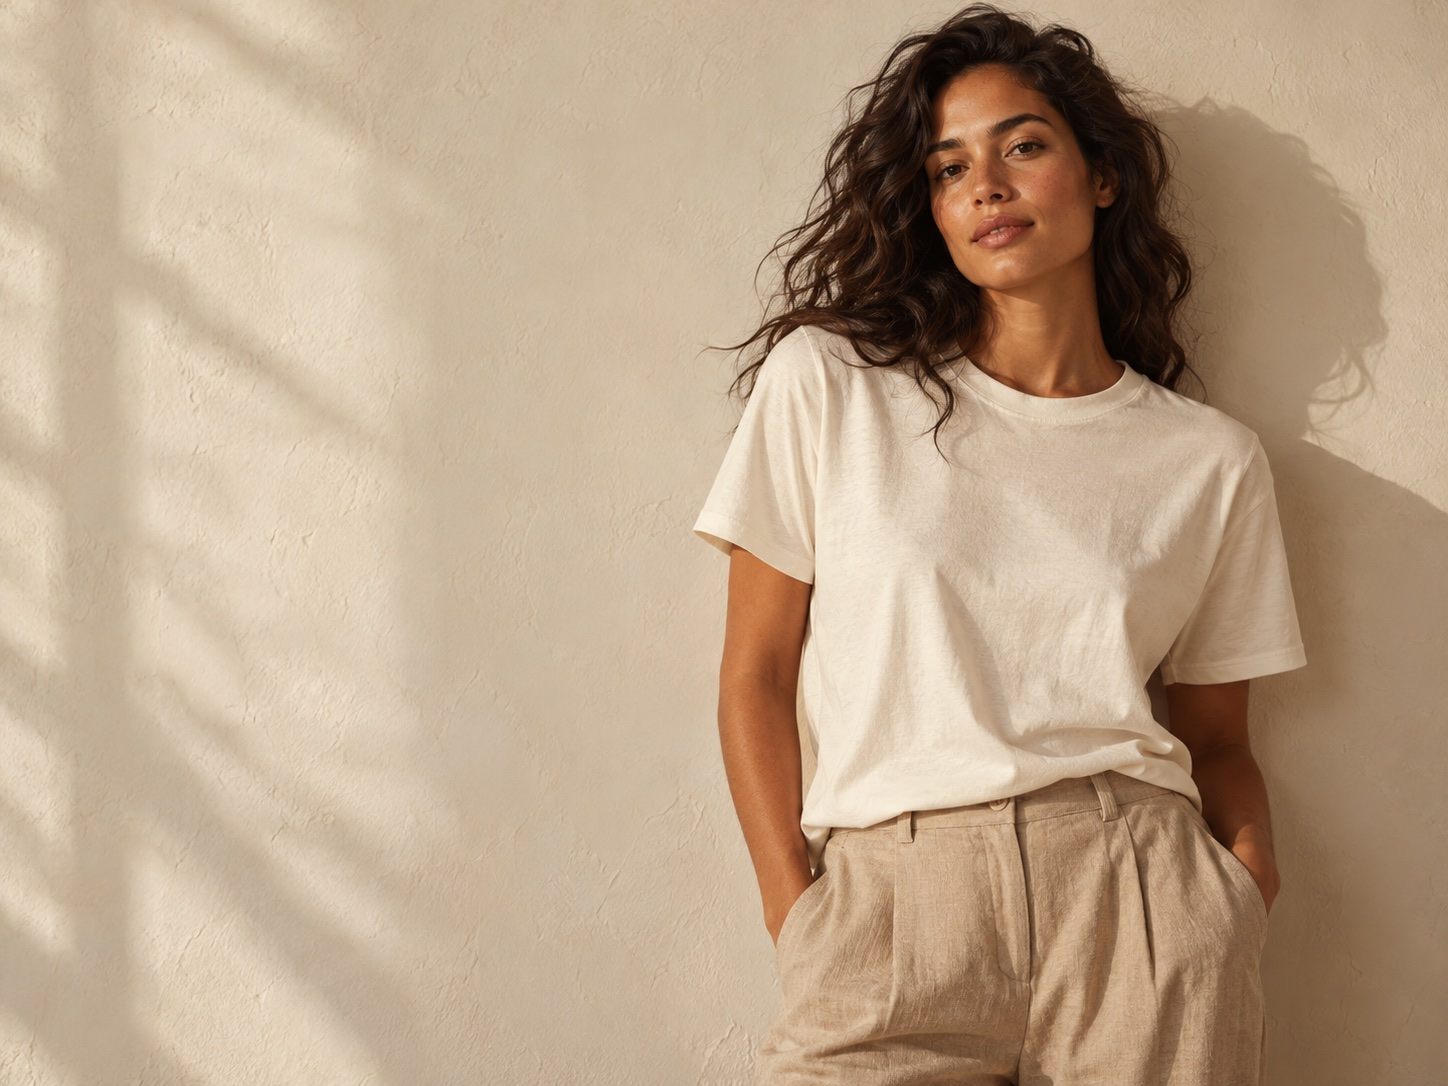
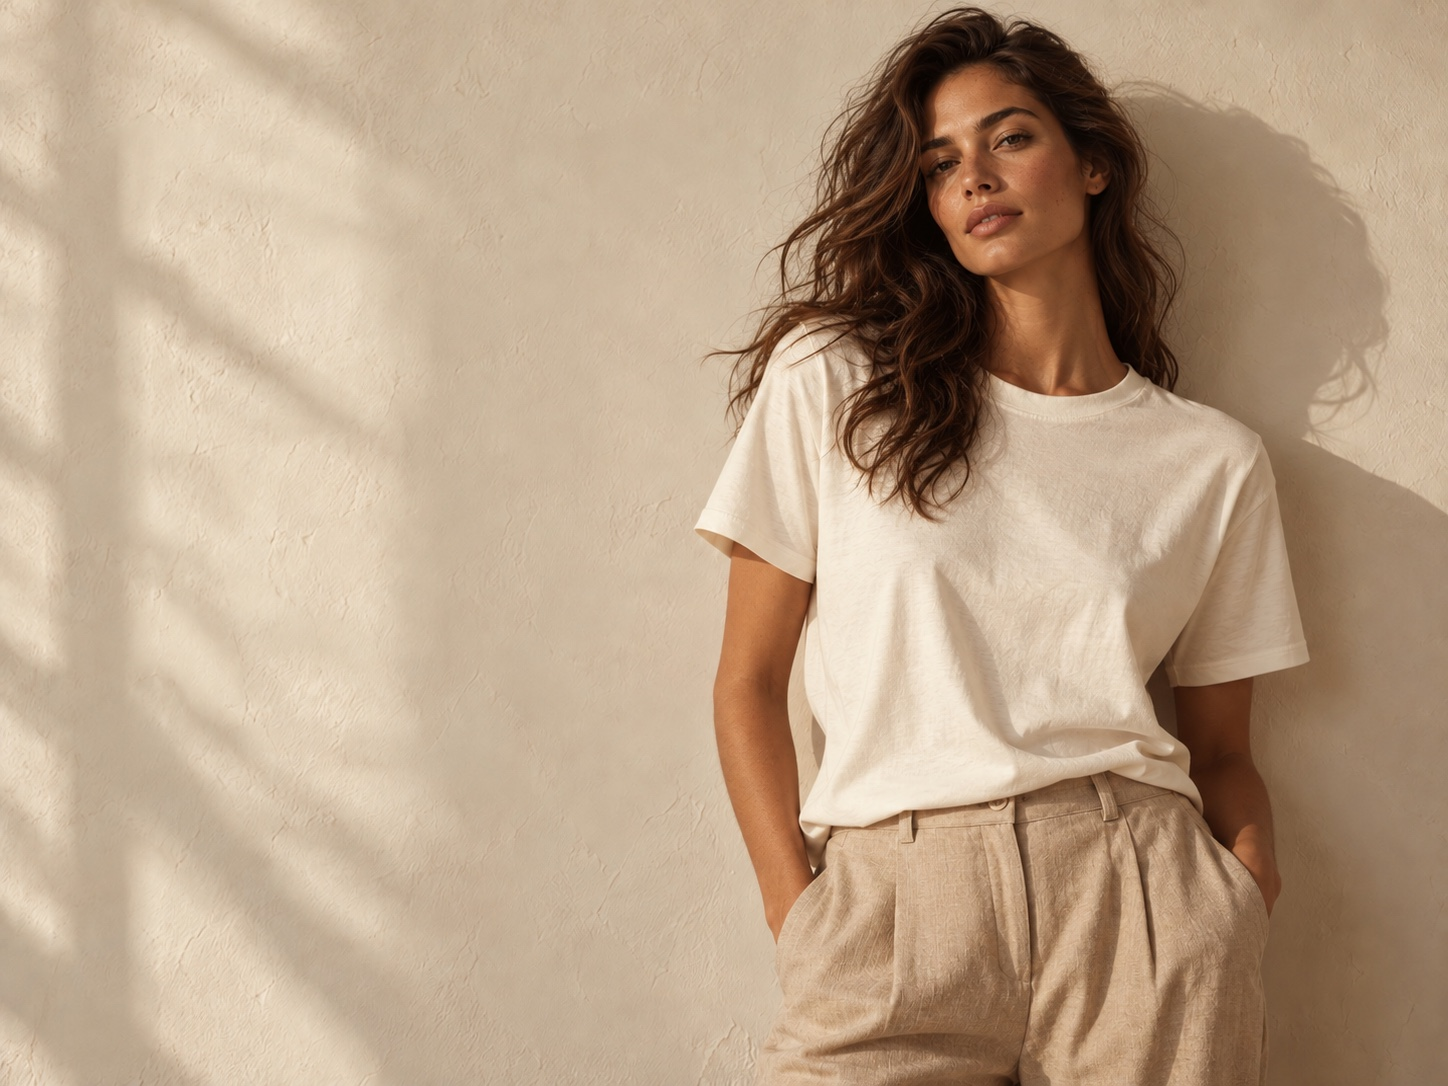
Warm up Gengibre storefront palette and imagery

diff --git a/styles.css b/styles.css
@@ -1,12 +1,12 @@
 :root {
   color-scheme: light;
-  --paper: #f4f1e9;
-  --paper-deep: #ebe6dc;
-  --ink: #1d2520;
-  --muted: #73776f;
-  --line: #d8d5ca;
-  --ginger: #b7573d;
-  --olive: #47564a;
+  --paper: #f3efe6;
+  --paper-deep: #e8e1d5;
+  --ink: #292b25;
+  --muted: #736e62;
+  --line: #d7cdbd;
+  --ginger: #79644c;
+  --olive: #4d5748;
   --serif: "Playfair Display", Georgia, serif;
   --sans: "DM Sans", Arial, sans-serif;
 }
@@ -23,8 +23,8 @@ img { display: block; max-width: 100%; }
 .sr-only { position: absolute; width: 1px; height: 1px; padding: 0; margin: -1px; overflow: hidden; clip: rect(0, 0, 0, 0); white-space: nowrap; border: 0; }
 
 .announcement { height: 33px; display: flex; align-items: center; justify-content: center; gap: 13px; color: #f7f4eb; background: var(--olive); font-size: 10px; letter-spacing: .075em; text-transform: uppercase; }
-.announcement-dot { color: #ddac8d; font-size: 13px; }
-.site-header { height: 77px; position: sticky; top: 0; z-index: 20; display: grid; grid-template-columns: 1fr auto 1fr; align-items: center; padding: 0 5.5vw; background: rgba(244, 241, 233, .97); border-bottom: 1px solid rgba(29, 37, 32, .09); backdrop-filter: blur(14px); }
+.announcement-dot { color: #c7b08f; font-size: 13px; }
+.site-header { height: 77px; position: sticky; top: 0; z-index: 20; display: grid; grid-template-columns: 1fr auto 1fr; align-items: center; padding: 0 5.5vw; background: rgba(243, 239, 230, .97); border-bottom: 1px solid rgba(29, 37, 32, .09); backdrop-filter: blur(14px); }
 .main-nav, .header-actions { display: flex; align-items: center; }
 .main-nav { gap: 31px; font-size: 11px; letter-spacing: .045em; }
 .main-nav a, .footer-links a, .text-link { transition: opacity .2s ease; }
@@ -67,8 +67,8 @@ h1 em, h2 em { color: var(--ginger); font-weight: 400; }
 .hero-image { width: 100%; height: 100%; object-fit: cover; object-position: center 35%; }
 .hero-image-wrap::after { content: ""; position: absolute; inset: 55% 0 0; pointer-events: none; background: linear-gradient(transparent, rgba(25, 25, 20, .36)); }
 .hero-image-caption { position: absolute; z-index: 1; bottom: 28px; left: 30px; right: 30px; display: flex; justify-content: space-between; color: white; font-size: 9px; letter-spacing: .08em; text-transform: uppercase; }
-.round-stamp { position: absolute; z-index: 2; top: 8%; left: -39px; width: 108px; height: 108px; display: flex; flex-direction: column; align-items: center; justify-content: center; gap: 5px; border: 1px solid rgba(244, 241, 233, .75); border-radius: 50%; outline: 1px solid rgba(244, 241, 233, .6); outline-offset: 5px; color: white; text-align: center; font-size: 8px; letter-spacing: .12em; line-height: 1.5; }
-.round-stamp b { color: #eab89a; font-size: 16px; font-weight: 400; }
+.round-stamp { position: absolute; z-index: 2; top: 8%; left: -39px; width: 108px; height: 108px; display: flex; flex-direction: column; align-items: center; justify-content: center; gap: 5px; border: 1px solid rgba(243, 239, 230, .75); border-radius: 50%; outline: 1px solid rgba(243, 239, 230, .6); outline-offset: 5px; color: white; text-align: center; font-size: 8px; letter-spacing: .12em; line-height: 1.5; }
+.round-stamp b { color: #c7ae8c; font-size: 16px; font-weight: 400; }
 .hero-index { position: absolute; z-index: 3; top: 50%; right: 20px; writing-mode: vertical-rl; color: white; font-size: 8px; letter-spacing: .14em; }
 
 .promise-bar { min-height: 87px; display: flex; align-items: center; justify-content: center; gap: clamp(45px, 9vw, 155px); border-bottom: 1px solid var(--line); }
@@ -92,8 +92,8 @@ h1 em, h2 em { color: var(--ginger); font-weight: 400; }
 .product-image { position: relative; overflow: hidden; aspect-ratio: .76; background: #e4dfd5; }
 .product-image > img { width: 100%; height: 100%; object-fit: cover; transition: transform .55s cubic-bezier(.2,.65,.25,1); }
 .product-card:hover .product-image > img { transform: scale(1.035); }
-.product-label { position: absolute; top: 12px; left: 12px; padding: 7px 9px; background: rgba(244, 241, 233, .9); color: #51594f; font-size: 8px; letter-spacing: .09em; text-transform: uppercase; }
-.favorite-button { position: absolute; top: 10px; right: 12px; display: grid; place-items: center; width: 30px; height: 30px; border: 0; border-radius: 50%; background: rgba(244, 241, 233, .76); cursor: pointer; font-size: 16px; }
+.product-label { position: absolute; top: 12px; left: 12px; padding: 7px 9px; background: rgba(243, 239, 230, .9); color: #51594f; font-size: 8px; letter-spacing: .09em; text-transform: uppercase; }
+.favorite-button { position: absolute; top: 10px; right: 12px; display: grid; place-items: center; width: 30px; height: 30px; border: 0; border-radius: 50%; background: rgba(243, 239, 230, .76); cursor: pointer; font-size: 16px; }
 .favorite-button.is-favorite { color: var(--ginger); }
 .product-info { padding-top: 13px; }
 .product-title-row { display: flex; justify-content: space-between; align-items: baseline; gap: 8px; }
@@ -142,10 +142,10 @@ h1 em, h2 em { color: var(--ginger); font-weight: 400; }
 .footer-main > p { margin: 0; color: #d2d4cb; font-family: var(--serif); font-size: 19px; line-height: 1.55; }
 .footer-links { display: grid; grid-template-columns: 1fr 1fr; gap: 20px; }
 .footer-links > div { display: flex; flex-direction: column; align-items: flex-start; gap: 11px; }
-.footer-links span { margin-bottom: 2px; color: #d5b9a3; font-size: 8px; letter-spacing: .12em; }
+.footer-links span { margin-bottom: 2px; color: #c7b295; font-size: 8px; letter-spacing: .12em; }
 .footer-links a { color: #edece5; font-size: 10px; }
-.footer-bottom { min-height: 55px; display: flex; align-items: center; justify-content: space-between; border-top: 1px solid rgba(244, 241, 233, .22); color: #c7cdc4; font-size: 7px; letter-spacing: .1em; }
-.footer-bottom b { margin-left: 5px; color: #d5b9a3; font-size: 12px; font-weight: 400; }
+.footer-bottom { min-height: 55px; display: flex; align-items: center; justify-content: space-between; border-top: 1px solid rgba(243, 239, 230, .22); color: #c7cdc4; font-size: 7px; letter-spacing: .1em; }
+.footer-bottom b { margin-left: 5px; color: #c7b295; font-size: 12px; font-weight: 400; }
 .footer-bottom a { color: #f2f0e8; }
 
 .drawer-backdrop { position: fixed; z-index: 40; inset: 0; background: rgba(23, 29, 24, .42); opacity: 0; transition: opacity .25s ease; }
@@ -296,8 +296,8 @@ h1 em, h2 em { color: var(--ginger); font-weight: 400; }
 }
 
 /* Multi-page storefront, brand marks, and video collection. */
-.wordmark.has-logo, .footer-wordmark { display: flex; align-items: center; justify-self: center; gap: 4px; width: 207px; height: 42px; overflow: visible; background: transparent; }
-.brand-flower { display: block; flex: 0 0 36px; width: 36px; height: 36px; object-fit: contain; }
+.wordmark.has-logo, .footer-wordmark { display: flex; align-items: center; justify-self: center; gap: 4px; width: 243px; height: 42px; overflow: visible; background: transparent; }
+.brand-flower { display: block; flex: 0 0 72px; width: 72px; height: 72px; object-fit: contain; }
 .wordmark-crop { position: relative; display: block; flex: 0 0 167px; width: 167px; height: 42px; margin: 0; overflow: hidden; vertical-align: baseline; }
 .wordmark-crop img { position: absolute; width: 267px; height: 107px; max-width: none; left: 50%; top: 50%; transform: translate(-50%, -50%); }
 .footer-wordmark { justify-self: start; }
@@ -387,7 +387,7 @@ h1 em, h2 em { color: var(--ginger); font-weight: 400; }
 .video-teaser video { width: 100%; height: 100%; object-fit: cover; transition: transform .5s ease; }
 .video-teaser:hover video { transform: scale(1.035); }
 .video-teaser > span { position: absolute; z-index: 1; left: 17px; right: 17px; bottom: 16px; display: flex; justify-content: space-between; color: white; font-family: var(--serif); font-size: 20px; }
-.video-teaser b { color: #e7bd9d; font-family: var(--sans); font-size: 14px; font-weight: 400; }
+.video-teaser b { color: #c7ae8c; font-family: var(--sans); font-size: 14px; font-weight: 400; }
 .video-disclaimer { margin: 15px 0 0; color: var(--muted); font-size: 9px; line-height: 1.7; }
 .video-disclaimer a { text-decoration: underline; }
 .video-page-intro { min-height: 400px; display: flex; flex-direction: column; align-items: flex-start; justify-content: center; }
@@ -401,7 +401,7 @@ h1 em, h2 em { color: var(--ginger); font-weight: 400; }
 .ugc-card { min-width: 0; }
 .ugc-video { position: relative; overflow: hidden; aspect-ratio: .62; background: #ded8cc; }
 .ugc-video video { width: 100%; height: 100%; object-fit: cover; }
-.ugc-video > span { position: absolute; top: 10px; left: 10px; padding: 7px 9px; background: rgba(244, 241, 233, .93); color: #586055; font-size: 7px; letter-spacing: .1em; pointer-events: none; }
+.ugc-video > span { position: absolute; top: 10px; left: 10px; padding: 7px 9px; background: rgba(243, 239, 230, .93); color: #586055; font-size: 7px; letter-spacing: .1em; pointer-events: none; }
 .ugc-caption h2 { margin: 12px 0 5px; font-family: var(--serif); font-size: 20px; font-weight: 400; }
 .ugc-caption p { margin: 0; color: var(--muted); font-size: 8px; line-height: 1.7; }
 .ugc-caption a { text-decoration: underline; }
@@ -413,14 +413,14 @@ h1 em, h2 em { color: var(--ginger); font-weight: 400; }
   .product-detail { grid-template-columns: minmax(0, 1fr) minmax(300px, .85fr); gap: 38px; }
   .ugc-grid { grid-template-columns: repeat(2, minmax(0, 1fr)); }
   .main-nav { gap: 12px; font-size: 9px; }
-  .wordmark.has-logo { width: 184px; }
-  .brand-flower { flex-basis: 32px; width: 32px; height: 32px; }
+  .wordmark.has-logo { width: 216px; }
+  .brand-flower { flex-basis: 64px; width: 64px; height: 64px; }
   .wordmark-crop { flex-basis: 148px; width: 148px; }
   .wordmark-crop img { width: 237px; height: 95px; }
 }
 @media (max-width: 680px) {
-  .wordmark.has-logo, .footer-wordmark { gap: 2px; width: 165px; height: 37px; }
-  .brand-flower { flex-basis: 30px; width: 30px; height: 30px; }
+  .wordmark.has-logo, .footer-wordmark { gap: 2px; width: 197px; height: 37px; }
+  .brand-flower { flex-basis: 60px; width: 60px; height: 60px; }
   .wordmark-crop { flex-basis: 133px; width: 133px; height: 37px; }
   .wordmark-crop img { width: 213px; height: 85px; }
   .page-intro { width: auto; margin-inline: 22px; }

diff --git a/videos.html b/videos.html
@@ -1,6 +1,6 @@
 <!doctype html>
 <html lang="pt-BR">
-  <head><meta charset="UTF-8" /><meta name="viewport" content="width=device-width, initial-scale=1" /><meta name="theme-color" content="#f4f1e9" /><meta name="description" content="Inspirações em vídeo para a GENGIBRE. Conteúdo demonstrativo licenciado, sem depoimentos de clientes." /><title>Em movimento — GENGIBRE</title><link rel="preconnect" href="https://fonts.googleapis.com" /><link rel="preconnect" href="https://fonts.gstatic.com" crossorigin /><link href="https://fonts.googleapis.com/css2?family=DM+Sans:wght@400;500;600;700&family=Playfair+Display:wght@400;500&display=swap" rel="stylesheet" /><link rel="stylesheet" href="styles.css" /><script src="catalog.js" defer></script><script src="store.js" defer></script><script src="script.js" defer></script></head>
+  <head><meta charset="UTF-8" /><meta name="viewport" content="width=device-width, initial-scale=1" /><meta name="theme-color" content="#f3efe6" /><meta name="description" content="Inspirações em vídeo para a GENGIBRE. Conteúdo demonstrativo licenciado, sem depoimentos de clientes." /><title>Em movimento — GENGIBRE</title><link rel="preconnect" href="https://fonts.googleapis.com" /><link rel="preconnect" href="https://fonts.gstatic.com" crossorigin /><link href="https://fonts.googleapis.com/css2?family=DM+Sans:wght@400;500;600;700&family=Playfair+Display:wght@400;500&display=swap" rel="stylesheet" /><link rel="stylesheet" href="styles.css" /><script src="catalog.js" defer></script><script src="store.js" defer></script><script src="script.js" defer></script></head>
   <body id="topo">
     <div class="announcement"><span>UMA PRIMEIRA PRÉVIA DA GENGIBRE</span><span class="announcement-dot">✳</span><span>Pedidos online em breve</span></div>
     <header class="site-header">

diff --git a/produto.html b/produto.html
@@ -1,6 +1,6 @@
 <!doctype html>
 <html lang="pt-BR">
-  <head><meta charset="UTF-8" /><meta name="viewport" content="width=device-width, initial-scale=1" /><meta name="theme-color" content="#f4f1e9" /><meta name="description" content="Detalhes da camiseta GENGIBRE e seleção de cor e tamanho." /><title>Camiseta — GENGIBRE</title><link rel="preconnect" href="https://fonts.googleapis.com" /><link rel="preconnect" href="https://fonts.gstatic.com" crossorigin /><link href="https://fonts.googleapis.com/css2?family=DM+Sans:wght@400;500;600;700&family=Playfair+Display:wght@400;500&display=swap" rel="stylesheet" /><link rel="stylesheet" href="styles.css" /><script src="catalog.js" defer></script><script src="store.js" defer></script><script src="script.js" defer></script><script src="product.js" defer></script></head>
+  <head><meta charset="UTF-8" /><meta name="viewport" content="width=device-width, initial-scale=1" /><meta name="theme-color" content="#f3efe6" /><meta name="description" content="Detalhes da camiseta GENGIBRE e seleção de cor e tamanho." /><title>Camiseta — GENGIBRE</title><link rel="preconnect" href="https://fonts.googleapis.com" /><link rel="preconnect" href="https://fonts.gstatic.com" crossorigin /><link href="https://fonts.googleapis.com/css2?family=DM+Sans:wght@400;500;600;700&family=Playfair+Display:wght@400;500&display=swap" rel="stylesheet" /><link rel="stylesheet" href="styles.css" /><script src="catalog.js" defer></script><script src="store.js" defer></script><script src="script.js" defer></script><script src="product.js" defer></script></head>
   <body id="topo">
     <div class="announcement"><span>UMA PRIMEIRA PRÉVIA DA GENGIBRE</span><span class="announcement-dot">✳</span><span>Pedidos online em breve</span></div>
     <header class="site-header">

diff --git a/duvidas.html b/duvidas.html
@@ -1,6 +1,6 @@
 <!doctype html>
 <html lang="pt-BR">
-  <head><meta charset="UTF-8" /><meta name="viewport" content="width=device-width, initial-scale=1" /><meta name="theme-color" content="#f4f1e9" /><meta name="description" content="Informações sobre a prévia da loja GENGIBRE, catálogo, tamanhos e abertura das vendas." /><title>Dúvidas — GENGIBRE</title><link rel="preconnect" href="https://fonts.googleapis.com" /><link rel="preconnect" href="https://fonts.gstatic.com" crossorigin /><link href="https://fonts.googleapis.com/css2?family=DM+Sans:wght@400;500;600;700&family=Playfair+Display:wght@400;500&display=swap" rel="stylesheet" /><link rel="stylesheet" href="styles.css" /><script src="catalog.js" defer></script><script src="store.js" defer></script><script src="script.js" defer></script></head>
+  <head><meta charset="UTF-8" /><meta name="viewport" content="width=device-width, initial-scale=1" /><meta name="theme-color" content="#f3efe6" /><meta name="description" content="Informações sobre a prévia da loja GENGIBRE, catálogo, tamanhos e abertura das vendas." /><title>Dúvidas — GENGIBRE</title><link rel="preconnect" href="https://fonts.googleapis.com" /><link rel="preconnect" href="https://fonts.gstatic.com" crossorigin /><link href="https://fonts.googleapis.com/css2?family=DM+Sans:wght@400;500;600;700&family=Playfair+Display:wght@400;500&display=swap" rel="stylesheet" /><link rel="stylesheet" href="styles.css" /><script src="catalog.js" defer></script><script src="store.js" defer></script><script src="script.js" defer></script></head>
   <body id="topo">
     <div class="announcement"><span>UMA PRIMEIRA PRÉVIA DA GENGIBRE</span><span class="announcement-dot">✳</span><span>Pedidos online em breve</span></div>
     <header class="site-header">

diff --git a/sobre.html b/sobre.html
@@ -1,6 +1,6 @@
 <!doctype html>
 <html lang="pt-BR">
-  <head><meta charset="UTF-8" /><meta name="viewport" content="width=device-width, initial-scale=1" /><meta name="theme-color" content="#f4f1e9" /><meta name="description" content="Conheça a ideia por trás da GENGIBRE e de sua coleção de camisetas essenciais." /><title>Nossa ideia — GENGIBRE</title><link rel="preconnect" href="https://fonts.googleapis.com" /><link rel="preconnect" href="https://fonts.gstatic.com" crossorigin /><link href="https://fonts.googleapis.com/css2?family=DM+Sans:wght@400;500;600;700&family=Playfair+Display:wght@400;500&display=swap" rel="stylesheet" /><link rel="stylesheet" href="styles.css" /><script src="catalog.js" defer></script><script src="store.js" defer></script><script src="script.js" defer></script></head>
+  <head><meta charset="UTF-8" /><meta name="viewport" content="width=device-width, initial-scale=1" /><meta name="theme-color" content="#f3efe6" /><meta name="description" content="Conheça a ideia por trás da GENGIBRE e de sua coleção de camisetas essenciais." /><title>Nossa ideia — GENGIBRE</title><link rel="preconnect" href="https://fonts.googleapis.com" /><link rel="preconnect" href="https://fonts.gstatic.com" crossorigin /><link href="https://fonts.googleapis.com/css2?family=DM+Sans:wght@400;500;600;700&family=Playfair+Display:wght@400;500&display=swap" rel="stylesheet" /><link rel="stylesheet" href="styles.css" /><script src="catalog.js" defer></script><script src="store.js" defer></script><script src="script.js" defer></script></head>
   <body id="topo">
     <div class="announcement"><span>UMA PRIMEIRA PRÉVIA DA GENGIBRE</span><span class="announcement-dot">✳</span><span>Pedidos online em breve</span></div>
     <header class="site-header">

diff --git a/colecao.html b/colecao.html
@@ -1,6 +1,6 @@
 <!doctype html>
 <html lang="pt-BR">
-  <head><meta charset="UTF-8" /><meta name="viewport" content="width=device-width, initial-scale=1" /><meta name="theme-color" content="#f4f1e9" /><meta name="description" content="Explore a coleção demonstrativa de camisetas básicas GENGIBRE." /><title>Camisetas essenciais — GENGIBRE</title><link rel="preconnect" href="https://fonts.googleapis.com" /><link rel="preconnect" href="https://fonts.gstatic.com" crossorigin /><link href="https://fonts.googleapis.com/css2?family=DM+Sans:wght@400;500;600;700&family=Playfair+Display:wght@400;500&display=swap" rel="stylesheet" /><link rel="stylesheet" href="styles.css" /><script src="catalog.js" defer></script><script src="store.js" defer></script><script src="script.js" defer></script></head>
+  <head><meta charset="UTF-8" /><meta name="viewport" content="width=device-width, initial-scale=1" /><meta name="theme-color" content="#f3efe6" /><meta name="description" content="Explore a coleção demonstrativa de camisetas básicas GENGIBRE." /><title>Camisetas essenciais — GENGIBRE</title><link rel="preconnect" href="https://fonts.googleapis.com" /><link rel="preconnect" href="https://fonts.gstatic.com" crossorigin /><link href="https://fonts.googleapis.com/css2?family=DM+Sans:wght@400;500;600;700&family=Playfair+Display:wght@400;500&display=swap" rel="stylesheet" /><link rel="stylesheet" href="styles.css" /><script src="catalog.js" defer></script><script src="store.js" defer></script><script src="script.js" defer></script></head>
   <body id="topo">
     <div class="announcement"><span>UMA PRIMEIRA PRÉVIA DA GENGIBRE</span><span class="announcement-dot">✳</span><span>Pedidos online em breve</span></div>
     <header class="site-header">

diff --git a/index.html b/index.html
@@ -3,7 +3,7 @@
   <head>
     <meta charset="UTF-8" />
     <meta name="viewport" content="width=device-width, initial-scale=1" />
-    <meta name="theme-color" content="#f4f1e9" />
+    <meta name="theme-color" content="#f3efe6" />
     <meta name="description" content="GENGIBRE — camisetas essenciais, feitas para acompanhar você todos os dias." />
     <title>GENGIBRE — vestir o essencial</title>
     <link rel="preconnect" href="https://fonts.googleapis.com" />
